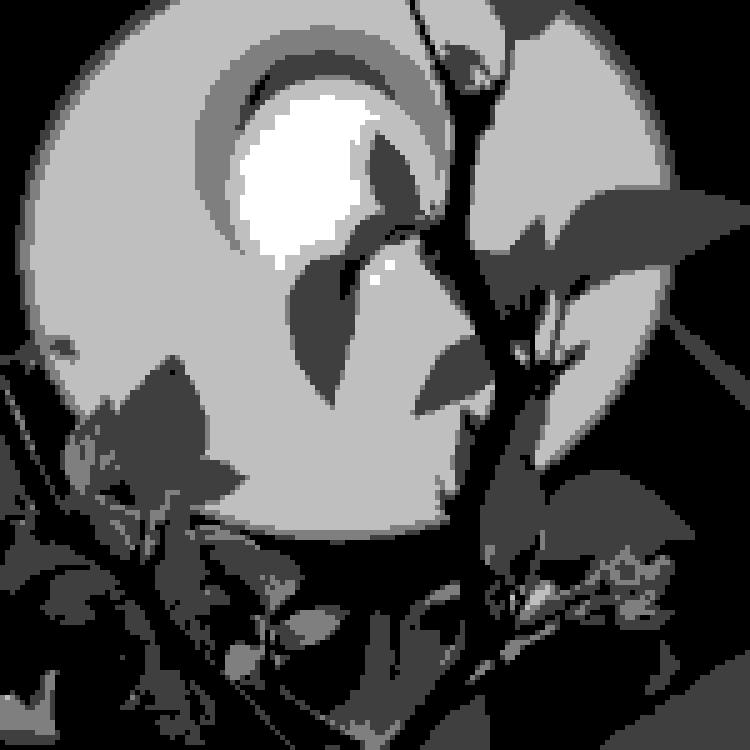
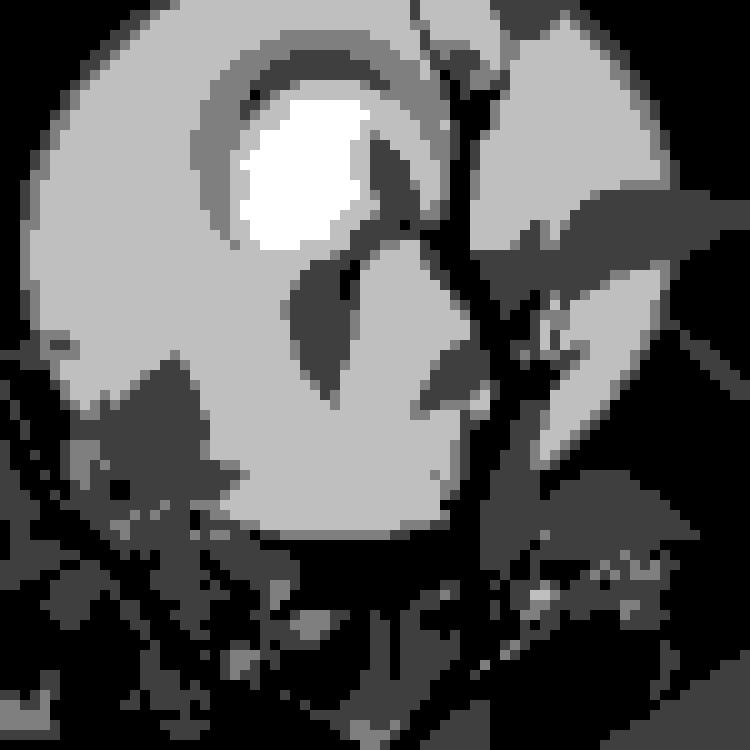
Third step
1. Replaced manual loops with matrix transformations

diff --git a/filter.py b/filter.py
@@ -10,20 +10,9 @@ def make_gray_picture(img_arr, mosaic_size, grayscale):
     while y <= height - mosaic_size:
         x = 0
         while x <= width - mosaic_size:
-            aver_bright = 0
-            for px_y in range(y, y + mosaic_size):
-                for px_x in range(x, x + mosaic_size):
-                    red = img_arr[px_y][px_x][0]
-                    green = img_arr[px_y][px_x][1]
-                    blue = img_arr[px_y][px_x][2]
-                    px_median = (int(red) + int(green) + int(blue)) / 3
-                    aver_bright += px_median
-            aver_bright = int(aver_bright // (mosaic_size * mosaic_size))
-            for px_y in range(y, y + mosaic_size):
-                for px_x in range(x, x + mosaic_size):
-                    img_arr[px_y][px_x][0] = int(aver_bright // gradation_step) * gradation_step
-                    img_arr[px_y][px_x][1] = int(aver_bright // gradation_step) * gradation_step
-                    img_arr[px_y][px_x][2] = int(aver_bright // gradation_step) * gradation_step
+            sum_bright = np.sum((img_arr[y: y + mosaic_size, x: x + mosaic_size]) / 3)
+            aver_bright = int(sum_bright // (mosaic_size * mosaic_size))
+            img_arr[y: y + mosaic_size, x: x + mosaic_size] = int(aver_bright // gradation_step) * gradation_step
             x += mosaic_size
         y += mosaic_size
     return img_arr
